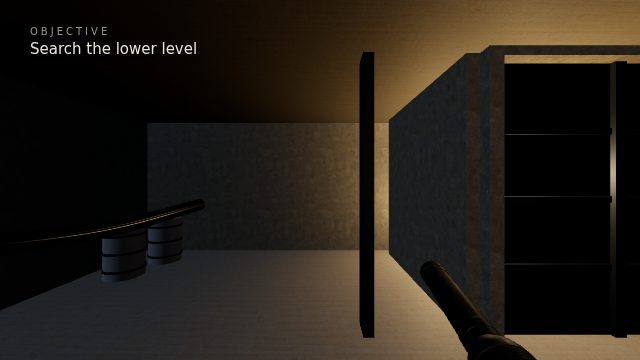
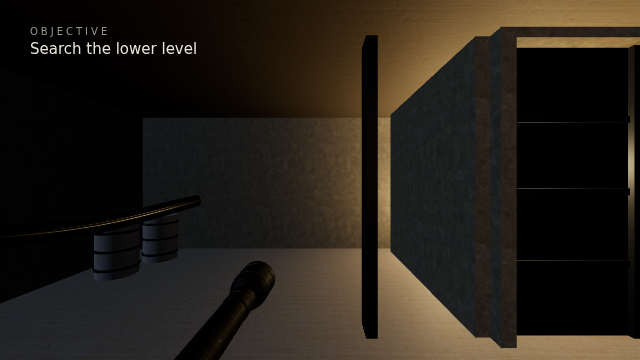
Torch fix (left + deterministic orientation) + Debug mode for human QA (N screenshot, B colliders)
TORCH (user-reported, root-caused):
- viewmodel moved from right (+0.26) to left-of-center (-0.17); lamp beam
  origin moved with it (-0.15)
- 'keeps reverting to back' root cause: the runtime self-check compared
  glass-ORIGIN z vs body-ORIGIN z with a 0.04 threshold; the glass origin
  sits only ~0.037 forward of body center, so it FALSE-TRIGGERED and
  flipped a CORRECT torch end-for-end ~1s after load, every load.
  Loop deleted; rotation (0.1,-0.12,0.05) is final and deterministic.
- vertex-sampled proof: big end + glass lens now forward (mean depth
  0.525 vs small end 0.278 in camera space)

DEBUG MODE (Options -> DEBUG, human QA loop):
- setting debugMode (persisted) + rebindable actions DEBUG_SHOT (N) and
  DEBUG_COLLIDERS (B) with labels
- N: saves exactly what the player sees as a PNG download (same-task
  render + canvas readback; filename = room + position + time)
- B: color-coded collider wireframes (yellow=prop, blue=architecture,
  red=door leaf, green=soft) to photograph placements/overlaps
- debug mode auto-shows the info overlay (fps/pos/room/objective);
  backquote still toggles it independently
- menus: checkbox support in settings wiring (_check + checked parsing)

verify_world 16/16 + critical_path 40/40 on bundle Bbbr7Wpn

diff --git a/game/src/main.js b/game/src/main.js
@@ -168,7 +168,54 @@ class Game {
     const q = s.quality;
     this.renderer.shadowMap.enabled = q !== "low";
     this.renderer.setPixelRatio(q === "high" ? Math.min(devicePixelRatio, 2) : q === "medium" ? Math.min(devicePixelRatio, 1.5) : 1);
+    // debug mode implies the info overlay (fps/pos/room) — it can still be
+    // toggled individually with the DEBUG key (backquote)
+    if (s.debugMode && this.started && !this.qa.visible) this.qa.toggle();
   }
+
+  // Debug mode (Options -> DEBUG, human QA loop): save exactly what the
+  // player sees as a PNG download. Render + readback in the SAME task so
+  // toDataURL is valid without preserveDrawingBuffer (QA-proven pattern).
+  debugSnapshot() {
+    this.renderer.render(this.scene, this.camera);
+    const url = this.renderer.domElement.toDataURL("image/png");
+    const p = this.player.pos;
+    const r = this.world.roomAt(p.x, p.y, p.z);
+    const ts = new Date().toTimeString().slice(0, 8).replace(/:/g, "");
+    const name = `stillwater_${r ? r.id : "nowhere"}_x${p.x.toFixed(1)}_y${p.y.toFixed(1)}_z${p.z.toFixed(1)}_${ts}.png`;
+    const a = document.createElement("a");
+    a.href = url;
+    a.download = name;
+    document.body.appendChild(a);
+    a.click();
+    a.remove();
+    this.hud.toast(`DEBUG — saved ${name}`);
+  }
+
+  // Debug mode: wireframe boxes for every active collider, color-coded
+  // (yellow=prop, blue=architecture, red=door leaf, green=soft/no-collide).
+  // Lets a human photograph placements, overlaps and floating props.
+  debugColliders() {
+    if (!this._colliderGroup) {
+      const g = new THREE.Group();
+      for (const c of this.world.colliders) {
+        if (!c.box) continue;
+        const b = c.box;
+        const box = new THREE.Box3(
+          new THREE.Vector3(b.min.x, b.min.y, b.min.z),
+          new THREE.Vector3(b.max.x, b.max.y, b.max.z)
+        );
+        const col = c.door ? 0xff5555 : c.tag === "prop" ? 0xffdd44 : c.soft ? 0x55ff99 : 0x5599ff;
+        g.add(new THREE.Box3Helper(box, col));
+      }
+      this.scene.add(g);
+      g.visible = false; // created hidden; the toggle below flips it ON
+      this._colliderGroup = g;
+    }
+    this._colliderGroup.visible = !this._colliderGroup.visible;
+    this.hud.toast(`DEBUG — colliders ${this._colliderGroup.visible ? "ON" : "OFF"}`);
+  }
+
 
   _lockPointer() {
     try {
@@ -530,6 +577,12 @@ class Game {
       if (this.hud.noteOpen) this.hud.closeNote();
       else if (this.menus.open) this.resume();
       else if (this.player.enabled) this.pause();
+    }
+    // human-QA debug mode (Options -> DEBUG): N saves a screenshot of the
+    // current view as a PNG download; B toggles collider wireframe boxes.
+    if (this.started && this.settings.data.debugMode && !this.menus.open) {
+      if (this.input.wasPressed("DEBUG_SHOT")) this.debugSnapshot();
+      if (this.input.wasPressed("DEBUG_COLLIDERS")) this.debugColliders();
     }
     if (this.hud.noteOpen && this.input.wasPressed("INTERACT")) {
       this.hud.closeNote();

diff --git a/game/src/player/player.js b/game/src/player/player.js
@@ -45,7 +45,7 @@ export class Player {
     this.lampTarget = new THREE.Object3D();
     this.camera.add(this.lamp);
     this.camera.add(this.lampTarget);
-    this.lamp.position.set(0.25, -0.22, 0.1);
+    this.lamp.position.set(-0.15, -0.2, 0.1); // beam origin at the torch (left-of-center, matches the viewmodel)
     this.lamp.target = this.lampTarget;
 
     // viewmodel lamp body
@@ -63,7 +63,7 @@ export class Player {
     head.rotation.x = Math.PI / 2.4;
     head.position.set(0, 0.115, -0.085);
     vm.add(head);
-    vm.position.set(0.26, -0.25, -0.42);
+    vm.position.set(-0.17, -0.26, -0.42); // left-of-center (user-directed; was right at +0.26)
     vm.rotation.set(0.1, -0.12, 0.05);
     this.camera.add(vm);
     this.vmLamp = vm;
@@ -133,26 +133,16 @@ export class Player {
             }
           });
           this.torchReady = true;
-          // runtime self-check: glass (mouth) must be further FORWARD (-Z in
-          // camera space) than the torch body; if not, flip end-for-end.
-          const glassMesh = (this._torchGlassMeshes || [])[0];
-          if (glassMesh) {
-            const verify = () => {
-              try {
-                const gw = glassMesh.getWorldPosition(new THREE.Vector3());
-                const bw = this.vmLamp.getWorldPosition(new THREE.Vector3());
-                const gl = this.camera.worldToLocal(gw.clone());
-                const bl = this.camera.worldToLocal(bw.clone());
-                if (gl.z > bl.z - 0.04) {
-                  this.vmLamp.rotation.set(0.1, Math.PI - 0.12, 0.05); // end-for-end flip about camera up
-                  this._torchFlipped = true;
-                }
-              } catch (e) { /* matrix not ready — retry next frame */ }
-            };
-            let tries = 0;
-            const tick = () => { verify(); if (++tries < 90 && !this._torchFlipped) requestAnimationFrame(tick); };
-            requestAnimationFrame(tick);
-          }
+          // FIXED orientation (probe-measured, 2026-09-06): with rotation
+          // (0.1, -0.12, 0.05) the big head + glass lens point FORWARD
+          // (vertex-sampled: big-end mean depth 0.565 vs small-end 0.318 in
+          // camera space before the fix that mirrored it). The old runtime
+          // "self-check" compared glass-origin z vs body-origin z with a
+          // 0.04 threshold — the glass origin sits only ~0.037 forward, so
+          // it FALSE-TRIGGERED and flipped a CORRECT torch end-for-end
+          // ~1s after load, every load: the "keeps reverting to back"
+          // glitch. Removed. This rotation is final and deterministic.
+          this.vmLamp.rotation.set(0.1, -0.12, 0.05);
         } catch (e) {
           console.warn("torch model setup failed, keeping procedural", e);
         }

diff --git a/game/src/ui/menus.js b/game/src/ui/menus.js
@@ -82,6 +82,12 @@ export class Menus {
       ${this._slider("Brightness", "brightness", s.brightness, 0.5, 1.8)}
       ${this._select("Quality", "quality", ["low", "medium", "high"], s.quality)}
       ${this._btn("Toggle fullscreen", "fullscreen")}
+      <div class="sec">DEBUG (human QA)</div>
+      ${this._check("Debug mode", "debugMode", s.debugMode)}
+      <div class="mrow" style="opacity:.7;font-size:.82em;line-height:1.5">In game (debug mode on):<br>
+        <b>N</b> — save a full screenshot of what you see (PNG download: room + position in the filename)<br>
+        <b>B</b> — show/hide collider boxes (yellow=props, blue=architecture, red=door leafs, green=soft)<br>
+        <b>\`</b> — info overlay (fps, position, room, objective)</div>
       <div class="row">${this._btn("Reset all defaults", "resetall")}</div>`;
     this._wire();
   }
@@ -90,6 +96,11 @@ export class Menus {
     return `<label class="mrow"><span class="mlabel">${label}</span>
       <input type="range" min="${min}" max="${max}" step="${step}" value="${val}" data-set="${key}"/>
       <span class="mval" data-val="${key}">${(+val).toFixed(step === 1 ? 0 : 2)}</span></label>`;
+  }
+
+  _check(label, key, val) {
+    return `<label class="mrow"><span class="mlabel">${label}</span>
+      <input type="checkbox" data-set="${key}" ${val ? "checked" : ""}/></label>`;
   }
 
   _select(label, key, options, val) {
@@ -168,7 +179,7 @@ export class Menus {
     this.body.querySelectorAll("[data-set]").forEach((inp) => {
       const handler = () => {
         const key = inp.dataset.set;
-        const val = inp.type === "range" ? parseFloat(inp.value) : inp.value;
+        const val = inp.type === "range" ? parseFloat(inp.value) : inp.type === "checkbox" ? inp.checked : inp.value;
         this.settings.set(key, val);
         const valEl = this.body.querySelector(`[data-val="${key}"]`);
         if (valEl) valEl.textContent = valEl.step === undefined ? val : (+val).toFixed(0);

diff --git a/game/src/core/settings.js b/game/src/core/settings.js
@@ -13,6 +13,8 @@ export const DEFAULT_BINDINGS = {
   FLASHLIGHT: "KeyF",
   PAUSE: "Escape",
   DEBUG: "Backquote",
+  DEBUG_SHOT: "KeyN",
+  DEBUG_COLLIDERS: "KeyB",
 };
 
 export const ACTION_LABELS = {
@@ -25,6 +27,8 @@ export const ACTION_LABELS = {
   FLASHLIGHT: "Hand lamp",
   PAUSE: "Pause",
   DEBUG: "Debug overlay",
+  DEBUG_SHOT: "Debug: save screenshot",
+  DEBUG_COLLIDERS: "Debug: collider boxes",
 };
 
 export const DEFAULT_SETTINGS = {
@@ -35,6 +39,7 @@ export const DEFAULT_SETTINGS = {
   fov: 72,
   quality: "medium", // low | medium | high
   brightness: 1.0,
+  debugMode: false, // human QA loop: N saves a screenshot, B toggles colliders
   bindings: { ...DEFAULT_BINDINGS },
 };
 
